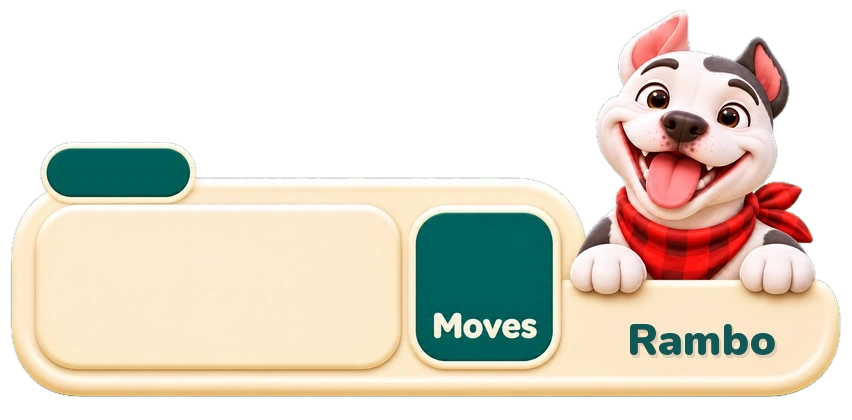
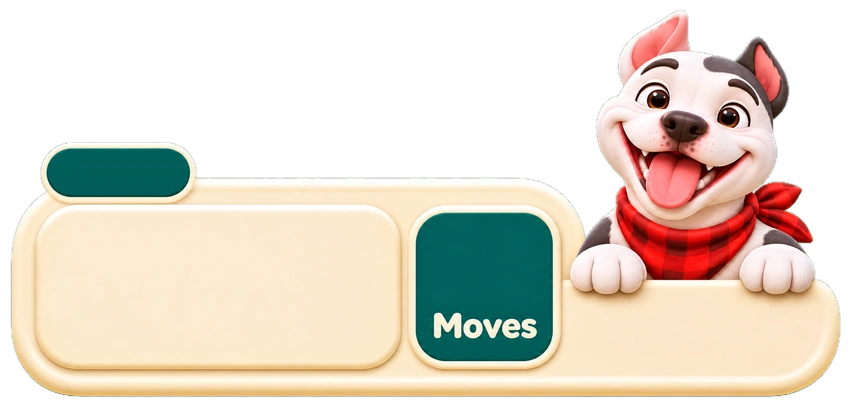
Top bar: remove Rambo name text
Claude-Session: https://claude.ai/code/session_01HqXo8oXM9XTGkWGnUkjv9K

Changed region(s): [[0.7324, 0.7738, 0.9155, 0.8667]]

diff --git a/game_new.html b/game_new.html
@@ -736,7 +736,7 @@ $('pz').onclick=()=>{if(!S)return;showOv(`<img class="ttl2" src="a/L_t_paused.we
 window.T={get S(){return S},findMove,localMatch,trySwap,startLevel,LEVELS,setFast:v=>FAST=v,tapCell};
 document.body.dataset.bt=Q.get('bt')||'cream70';document.getElementById('topw').style.transform=`translate(10px,${Q.get('hu')??14}px) scale(.9)`;if(Q.get('dof'))document.body.dataset.dof=Q.get('dof');if(Q.get('calm'))document.body.dataset.calm=Q.get('calm');document.body.dataset.hud=Q.get('hud')||'smoke';
 addEventListener("load",()=>startLevel(Math.max(0,(+Q.get("lv")||1)-1)));
-</script><script src="game_fx.js?v=23"></script><script src="rambo_live.js?v=23"></script><script src="game2_new.js?v=12"></script><script src="pop_gold.js?v=6"></script><script src="polish.js?v=3"></script><script src="frameless.js?v=11"></script><script>(function(){const _sl=window.startLevel,lv0=+(new URLSearchParams(location.search).get('lv')||1);window.startLevel=function(n,o){if(Math.floor(n/10)!==Math.floor((lv0-1)/10))return location.replace('game_new.html?lv='+(n+1));return _sl(n,o)}})();
+</script><script src="game_fx.js?v=23"></script><script src="rambo_live.js?v=23"></script><script src="game2_new.js?v=12"></script><script src="pop_gold.js?v=6"></script><script src="polish.js?v=3"></script><script src="frameless.js?v=12"></script><script>(function(){const _sl=window.startLevel,lv0=+(new URLSearchParams(location.search).get('lv')||1);window.startLevel=function(n,o){if(Math.floor(n/10)!==Math.floor((lv0-1)/10))return location.replace('game_new.html?lv='+(n+1));return _sl(n,o)}})();
 (function(){
 // ===== Which background each chapter uses (easy to swap) =====
 // s01 Teal woodland · s02 Blue backyard · s03 Rooftops · s04 Streetlamps · s05 Mountains · s06 Rolling hills

diff --git a/frameless.js b/frameless.js
@@ -17,7 +17,7 @@ function build(){const h=document.getElementById('g2hud');if(!h||!document.getEl
  // main goals bar, moves pill, level tag (852-unit layout of the approved mockup)
  const RV=new URLSearchParams(location.search).get('rv')||'art';ram.dataset.ar=0.744;
  if(RV=='art'){
-  const t=new Image();t.className='flp';t.src='bovo11/play2/topbar.webp?v=2';Object.assign(t.style,{left:u(43),top:u(118),width:u(766.8000000000001),height:u(378.0)});h.insertBefore(t,h.firstChild);
+  const t=new Image();t.className='flp';t.src='bovo11/play2/topbar.webp?v=3';Object.assign(t.style,{left:u(43),top:u(118),width:u(766.8000000000001),height:u(378.0)});h.insertBefore(t,h.firstChild);
   ram.style.display='none';h.dataset.art=1;
  }else if(RV=='peek'){
   // Rambo peeks over the top of one full-width bar (bar in front of him)
